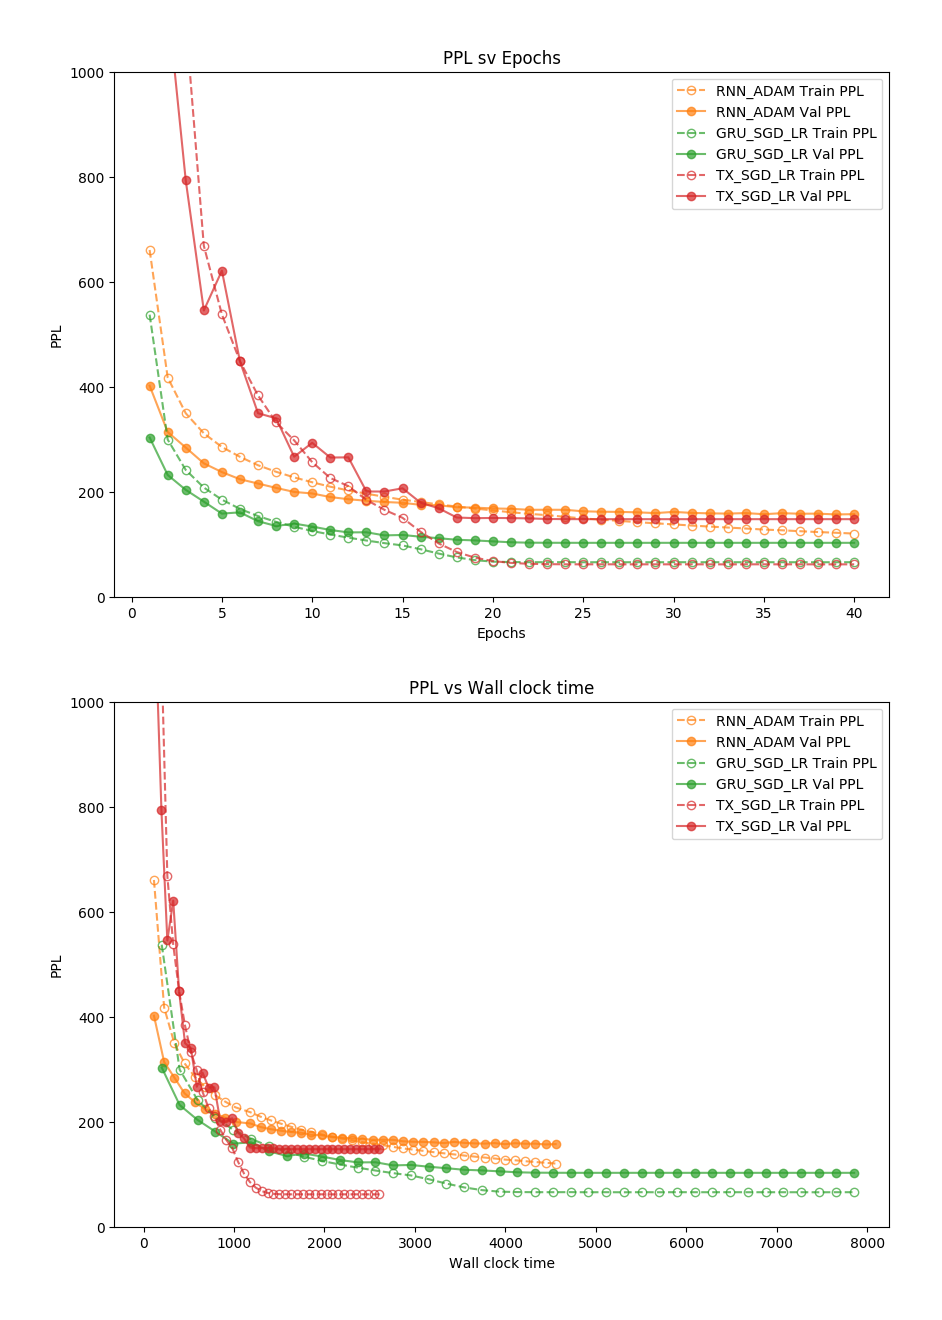
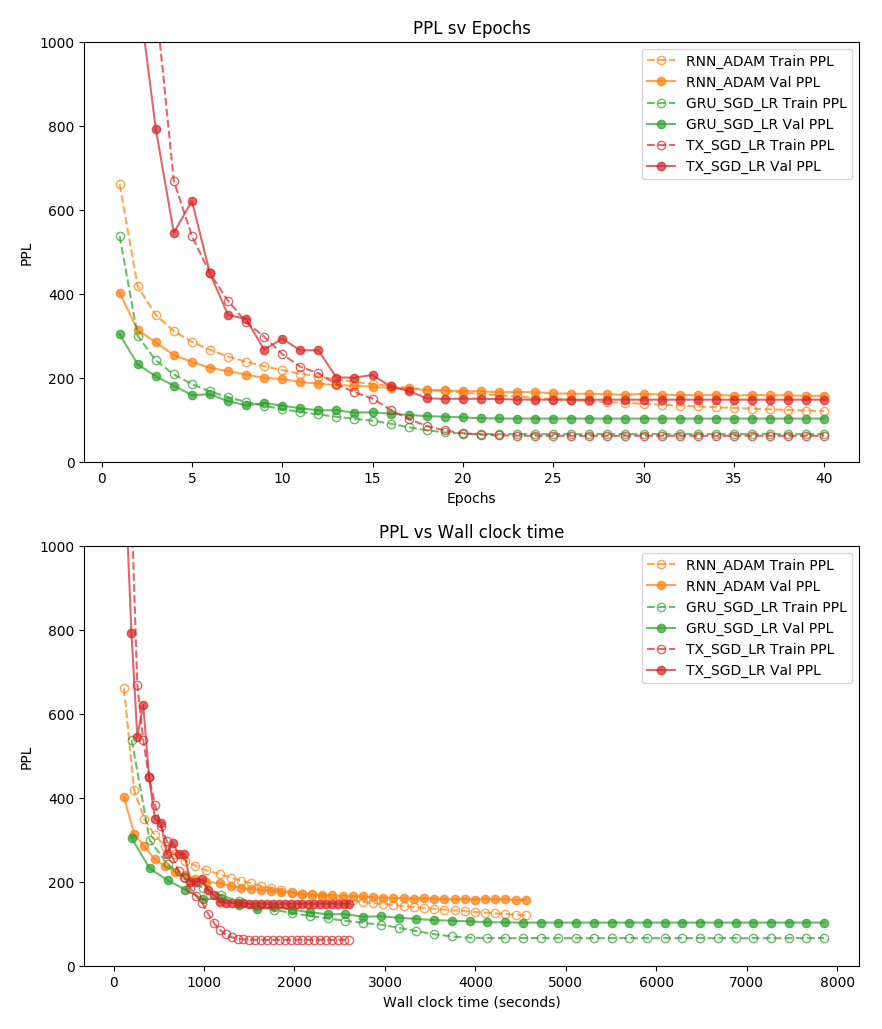
Minor updates

diff --git a/Assignment_2/Practice/ptb-lm.py b/Assignment_2/Practice/ptb-lm.py
@@ -49,7 +49,7 @@
 #      perplexities:
 #                  RNN: train:  120  val: 157
 #                  GRU: train:   65  val: 104
-#          TRANSFORMER:  train:  77  val: 152
+#          TRANSFORMER:  train:  67  val: 146
 #    - For Problem 4.2 (exploration of optimizers), you will make use of the 
 #      experiments from 4.1, and should additionally run the following experiments:
 #          --model=RNN --optimizer=SGD --initial_lr=0.0001 --batch_size=20 --seq_len=35 --hidden_size=1500 --num_layers=2 --dp_keep_prob=0.35 
@@ -161,7 +161,7 @@ print(argsdict)
 # Use the model, optimizer, and the flags passed to the script to make the 
 # name for the experimental dir
 print("\n########## Setting Up Experiment ######################")
-flags = [flag.lstrip('--') for flag in sys.argv[1:]]
+flags = [flag.lstrip('--').replace('/', '').replace('\\', '') for flag in sys.argv[1:]]
 experiment_path = os.path.join(args.save_dir+'_'.join([argsdict['model'],
                                          argsdict['optimizer']] 
                                          + flags))

diff --git a/Assignment_2/Practice/make_plots.py b/Assignment_2/Practice/make_plots.py
@@ -24,7 +24,7 @@ for d in dirs:
     times_all.append(times)
 
 # Plot
-# plt.figure(figsize=(15, 20))
+plt.figure(figsize=(5, 10))
 
 # vs epochs
 plt.subplot(211)
@@ -50,10 +50,10 @@ for i in range(len(dirs)):
     plt.title("PPL vs Wall clock time")
     # plt.ylabel("PPL (in log scale)")
     plt.ylabel("PPL")
-    plt.xlabel("Wall clock time")
+    plt.xlabel("Wall clock time (seconds)")
 
 # plt.subplots_adjust(hspace=.5)
 
-plt.savefig('1_model_compare.png', bbox_inches='tight', pad_inches=0.5)
+plt.savefig('1_model_compare.png', bbox_inches='tight', pad_inches=0.2)
 plt.clf()
 plt.close()
